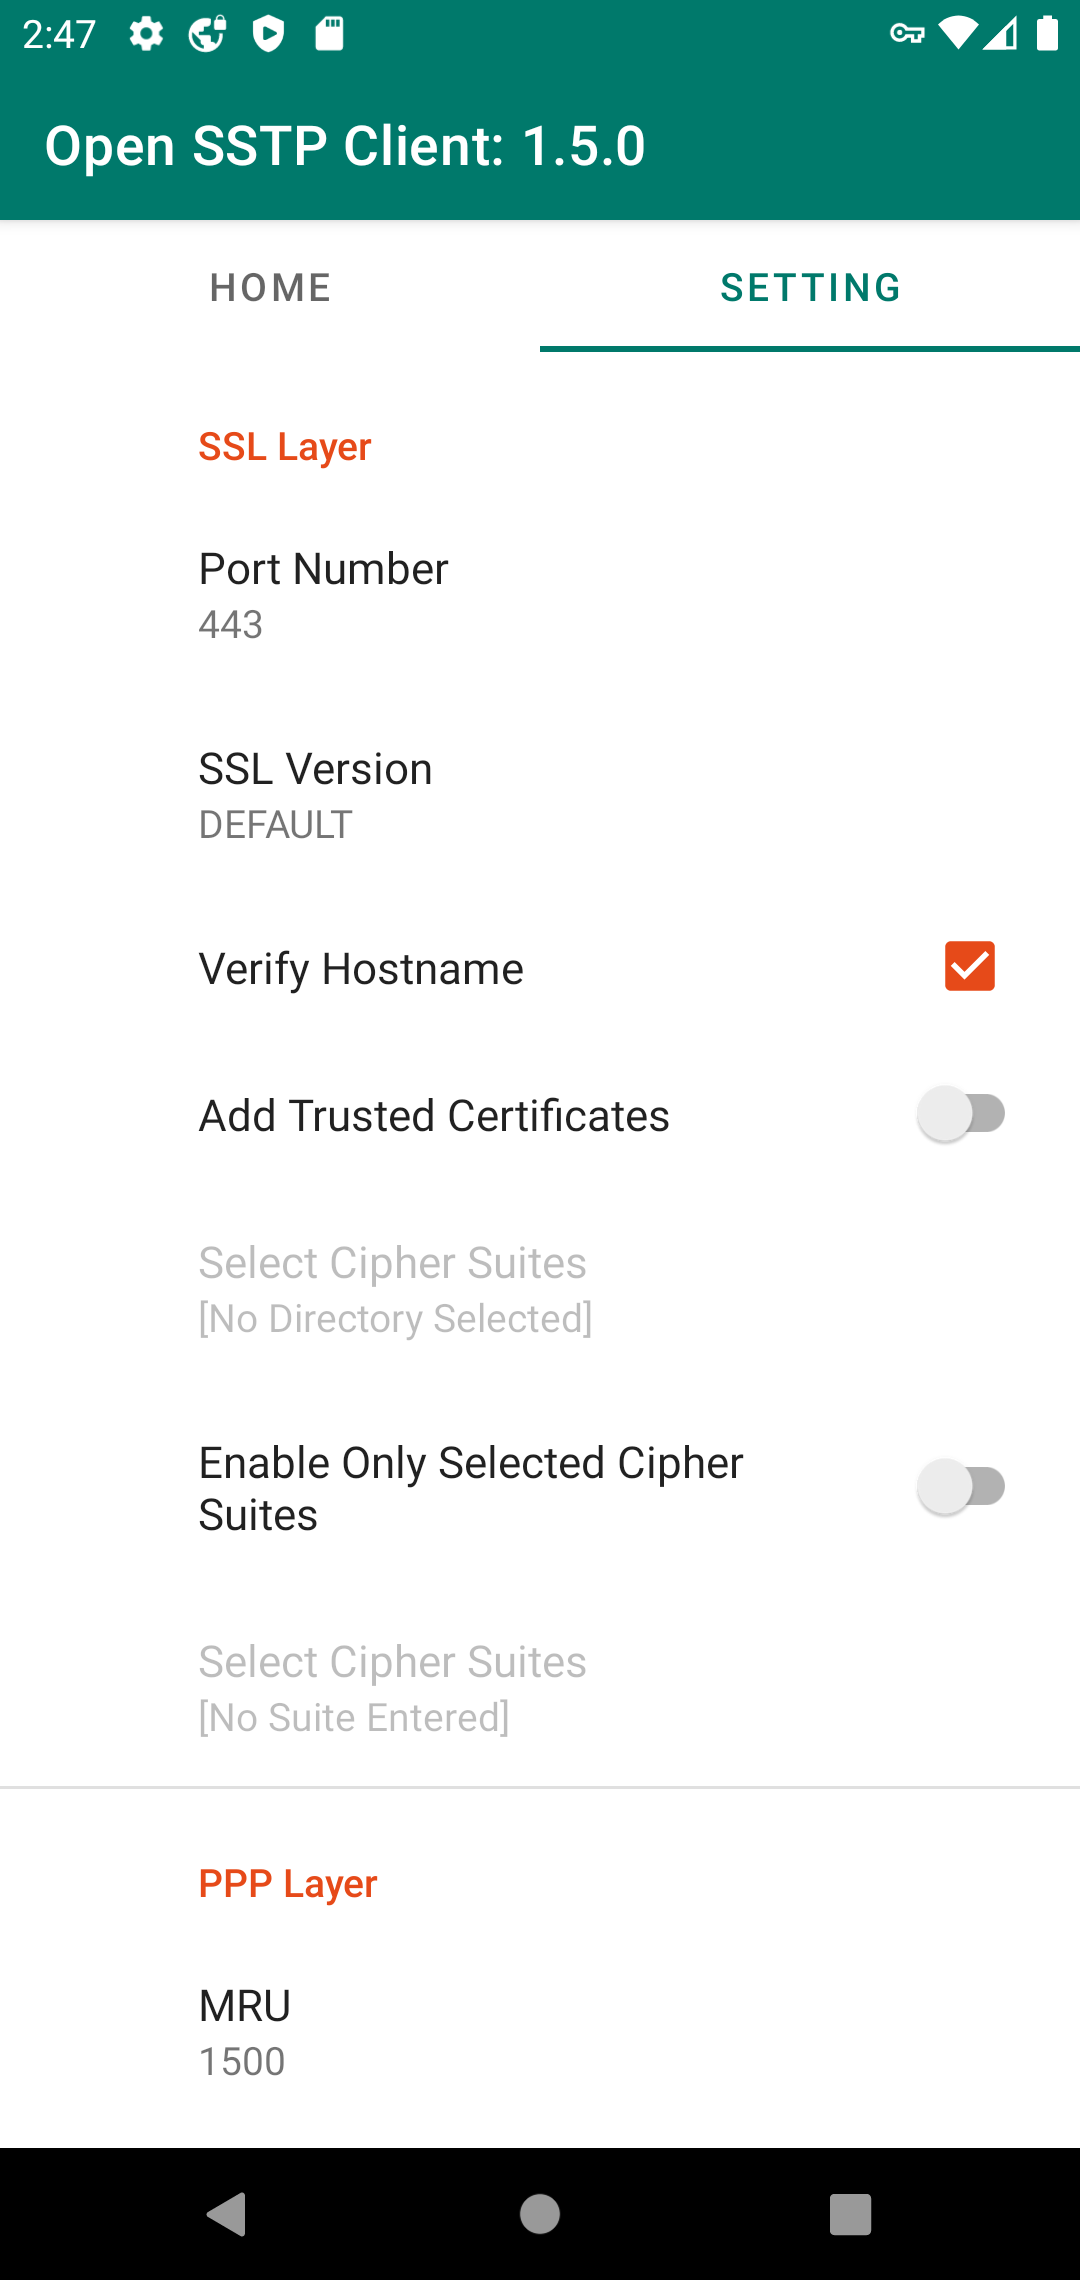
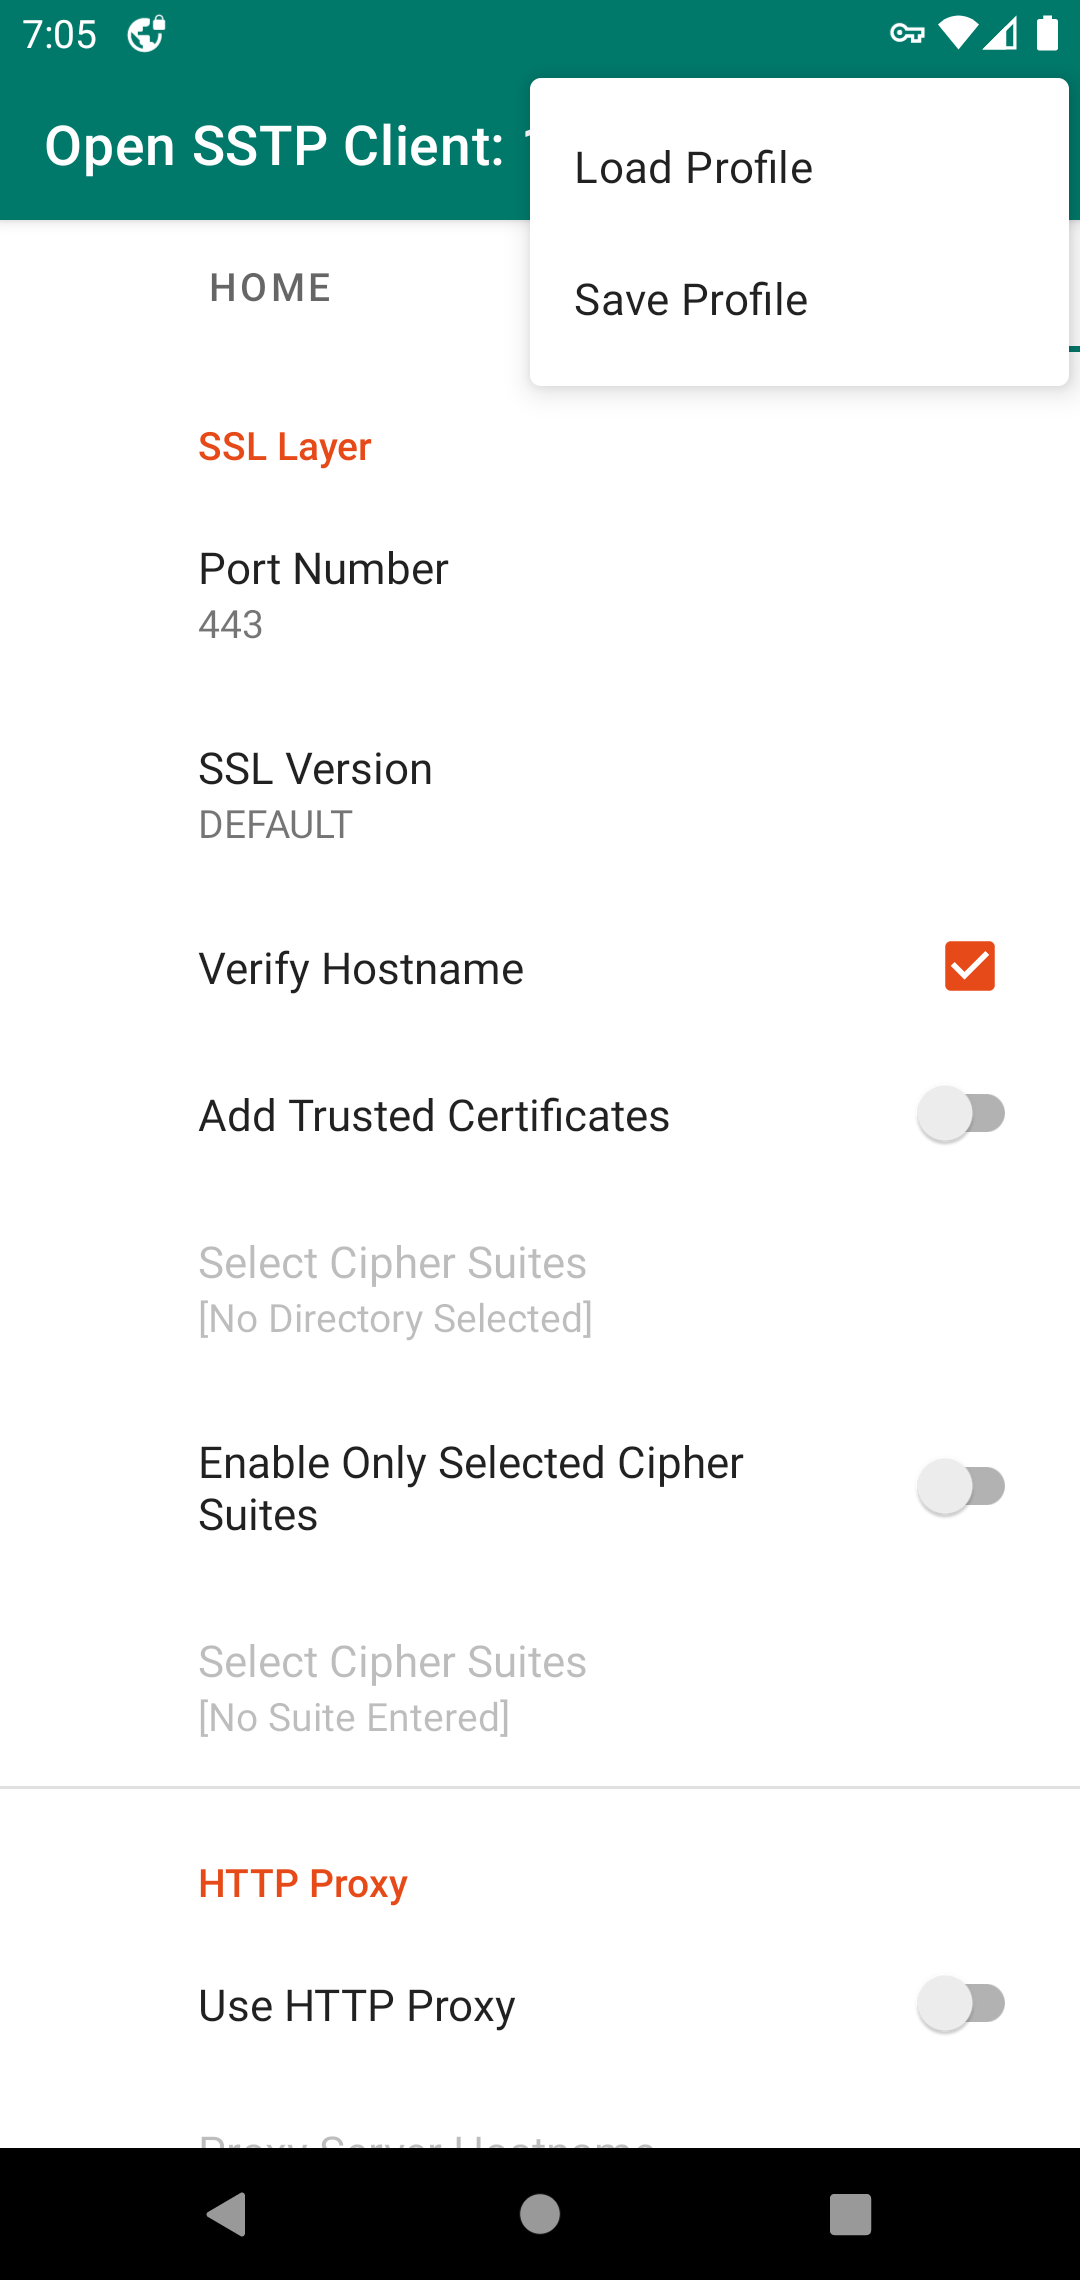
DOC: update screenshots

diff --git a/README.md b/README.md
@@ -10,11 +10,13 @@ Some of previous versions are released as apk file on [the releases page](https:
 ## Usage
 Enter `Host`, `Username` and `Password` preferences and turn the switch on. If a key icon gets to show on 
 the right side of the status bar, establishing a VPN connection has been succeeded. To disconnect 
-the connection, turn the switch off in the home tab or tap the notification.  
+the connection, turn the switch off in the home tab or tap the notification. You can save/load the 
+profile from the upper-right option menu.  
 <br>
-<img src="images/example_home.png" width=25%>
-<img src="images/example_setting_2.png" width=25%>
-<img src="images/example_tile.png" width=25%>
+<img src="images/example_home.png" width=20%>
+<img src="images/example_setting_1.png" width=20%>
+<img src="images/example_setting_2.png" width=20%>
+<img src="images/example_tile.png" width=20%>
 
 
 ## Setting tab
